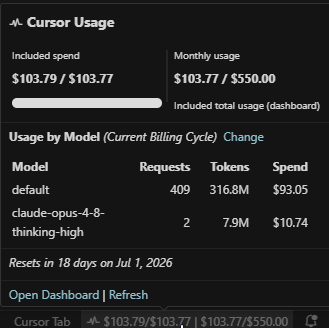
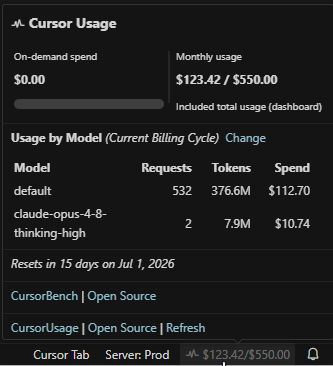
chore: release 0.6.4 [AI-GEN]
- Bump extension version to 0.6.4

- Update changelog and screenshots

Generated-by: GPT-5.2

Changed region(s): [[0.0, 0.0, 1.0, 1.0], [0.7903, 0.4268, 0.9422, 0.7012], [0.5471, 0.6707, 0.5775, 0.7012]]

diff --git a/CHANGELOG.md b/CHANGELOG.md
@@ -2,6 +2,16 @@
 
 All notable changes to this project are documented in this file.
 
+## [0.6.4] - 2026-06-16
+
+### Added
+- CursorBench snapshot in both the tooltip and the in-editor dashboard (chart + sortable table).
+- WSL support: auto-detect Cursor’s `state.vscdb` location on the Windows filesystem when running under WSL.
+
+### Changed
+- Tooltip footer actions now use compact inline links: `CursorUsage | Open Source | Refresh`, and `CursorBench | Open Source`.
+- Status bar usage display now shows a single on-demand spend value (spend/limit) instead of the prior segmented format.
+
 ## [0.6.3] - 2026-06-13
 
 ### Fixed
